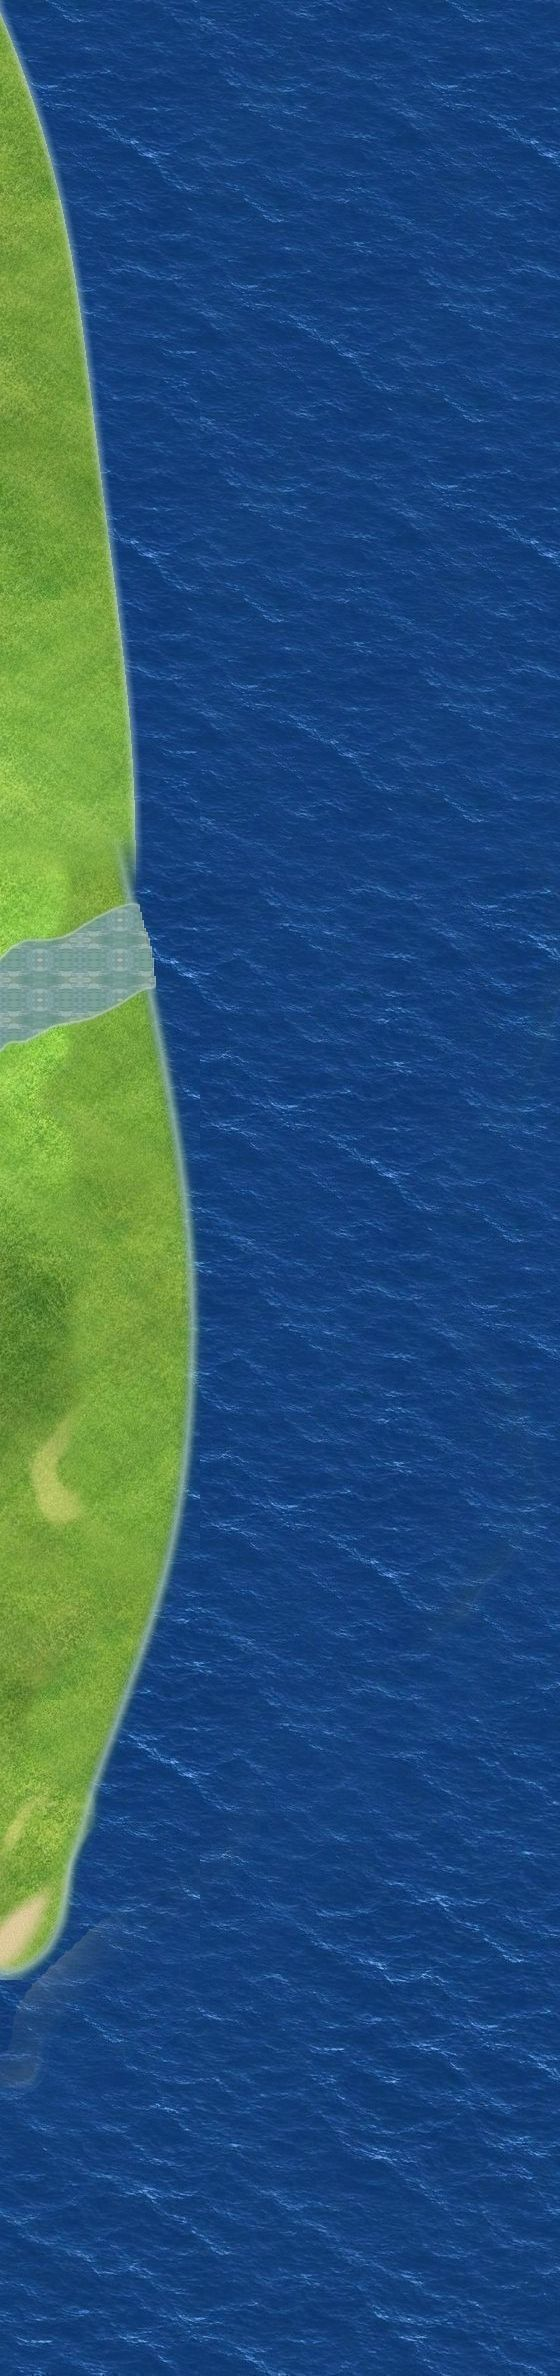
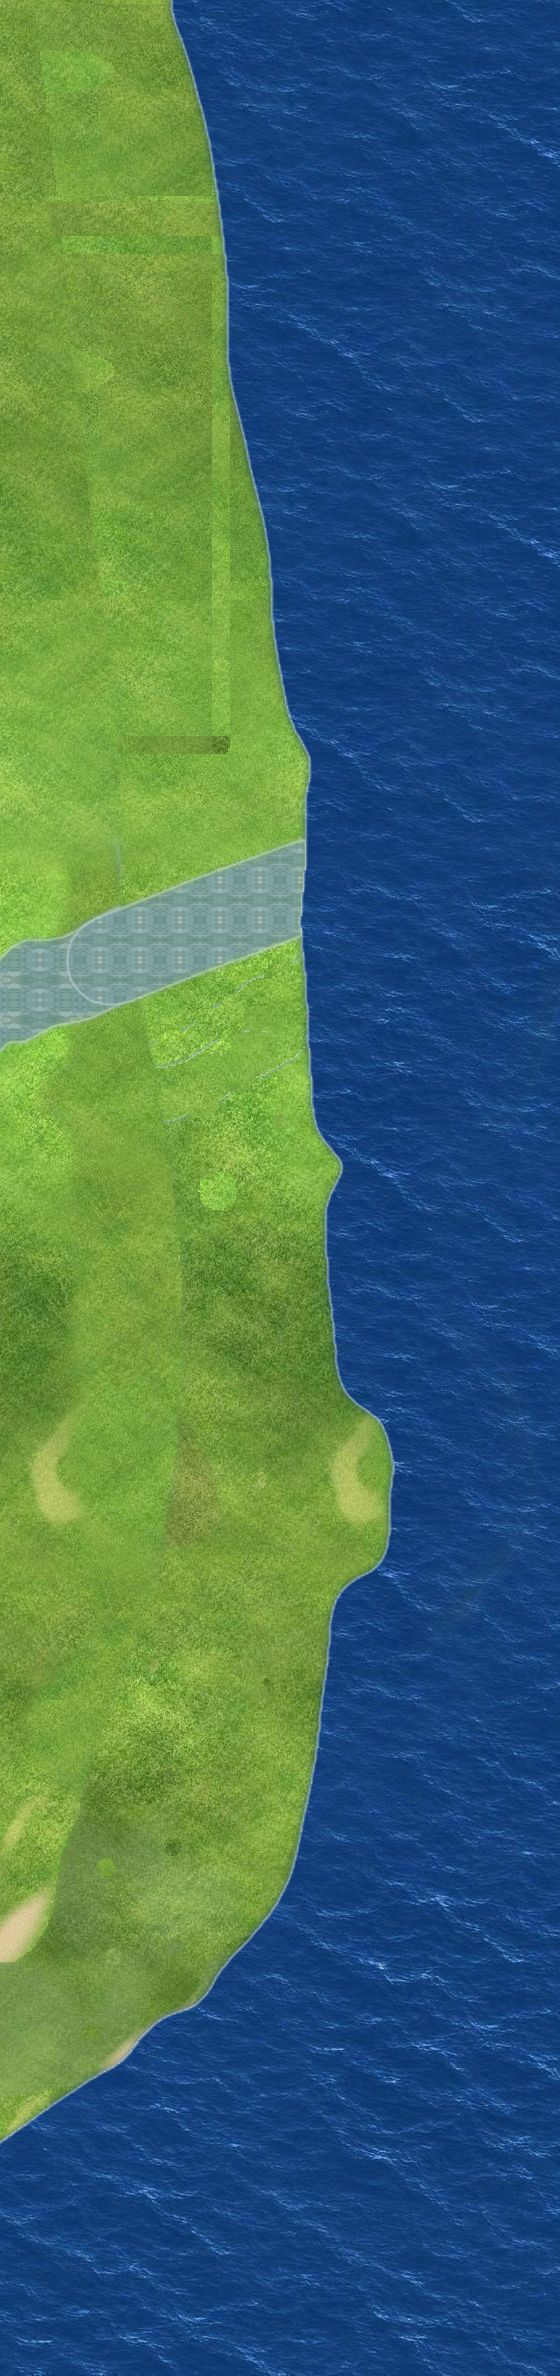
按用户画线：山顶木栅（带碰撞）；清掉看不见的小碰撞块；东/南海岸向海扩成草原并抹顺；南湖浅滩接到海、东河延长到新海岸 Co-Authored-By: Claude Opus 5.5 <noreply@anthropic.com> Claude-Session: https://claude.ai/code/session_011WrGna6yNwTfpmyp4CxMHs

Changed region(s): [[0.0, 0.0, 0.6982, 0.9032], [0.1518, 0.3737, 0.1821, 0.436]]

diff --git a/src/landmarks.js b/src/landmarks.js
@@ -8,7 +8,13 @@ const LM_DEF=[
 const CD=150,BUF=30;
 const IM={};for(const k of ['atk','spd','heal','gold'])for(const t of ['on','off']){const i=new Image();i.src=`assets/map/landmarks/${k}_${t}.png`;IM[k+'_'+t]=i}
 for(const f of ['idle','run1','run2','hit']){const i=new Image();i.src=`assets/characters/summons/tg/${f}.png`;IM['tg_'+f]=i}
-const LH={atk:26,spd:30,heal:24,gold:20};   // 地标在游戏里的高度
+const LH={atk:26,spd:30,heal:24,gold:20};
+// 山顶木栅（用户画线 11/03，data/palisade.json）：沿线每 5px 一根营地木桩；碰撞已烘进 coll.png
+for(const k of ['post0','post1','post2']){const i=new Image();i.src=`assets/map/sprites/camp_${k}.png`;IM['p_'+k]=i}
+const PH={post0:31,post1:24,post2:19};let POSTS=[];
+fetch('data/palisade.json?v=1').then(r=>r.json()).then(Ls=>{let seed=7;const rnd=()=>(seed=(seed*16807)%2147483647)/2147483647;
+ for(const L of Ls)for(let i=0;i<L.length-1;i++){const [x0,y0]=L[i],[x1,y1]=L[i+1],len=Math.hypot(x1-x0,y1-y0);for(let t=0;t<len;t+=5){const x=x0+(x1-x0)*t/len,y=y0+(y1-y0)*t/len;
+  POSTS.push({k:'post'+[0,1,1,2][Math.floor(rnd()*4)],x:x+(rnd()-.5)*1.5,y:y+(rnd()-.5)*1.5,h:.85+rnd()*.3})}}}).catch(()=>{});   // 地标在游戏里的高度
 export function install(X){
  const {hero,en,ok,makeEnemy,survival}=X,R=(a,b)=>a+Math.random()*(b-a);
  let L=null;
@@ -38,7 +44,7 @@ export function install(X){
   else if(l.k==='heal'){c.fillStyle='#7d8590';c.beginPath();c.ellipse(0,-3,10,4,0,0,6.3);c.fill();c.fillStyle=on?'#4fd18a':'#3b4048';c.beginPath();c.ellipse(0,-4,8,2.8,0,0,6.3);c.fill();c.fillStyle='#8a929c';c.fillRect(-1.5,-12,3,8);if(on){c.fillStyle='#bfffd6';for(let i=0;i<3;i++){const t=(now/400+i/3)%1;c.fillRect(-1+Math.sin(i*2)*2,-12-t*8,1.5,1.5)}}}
   else{c.fillStyle='#7d8590';c.fillRect(-9,-8,18,8);c.fillStyle='#9aa2ac';c.fillRect(-10,-9,20,2);if(on){c.fillStyle='#ffd23f';for(const [px,py] of [[-5,-11],[0,-12],[5,-11],[-2,-14],[3,-14],[0,-16]]){c.beginPath();c.arc(px,py,2,0,6.3);c.fill()}}}
   c.restore()}
- function sprites(items,cx,cy,c,now){if(!L)return;for(const l of L){const x=l.x-cx,y=l.y-cy;if(x<-40||y<-40||x>600||y>400)continue;items.push({y:l.y,f:()=>drawLM(c,l,x,y,now)})}
+ function sprites(items,cx,cy,c,now){if(!L)return;for(const p of POSTS){const x=p.x-cx,y=p.y-cy;if(x<-20||y<-40||x>620||y>420)continue;const I=IM['p_'+p.k];if(!I?.complete||!I.width)continue;items.push({y:p.y,f:()=>{const h=PH[p.k]*p.h,w=I.width*h/I.height;c.drawImage(I,x-w/2,y-h+2,w,h)}})}for(const l of L){const x=l.x-cx,y=l.y-cy;if(x<-40||y<-40||x>600||y>400)continue;items.push({y:l.y,f:()=>drawLM(c,l,x,y,now)})}
   for(const e of en){if(!e.tg||e.dead)continue;const x=e.x-cx,y=e.y-cy;items.push({y:e.y+.5,f:()=>{const I=IM['tg_'+(e.flash>0?'hit':Math.floor(now/110)%2?'run1':'run2')];if(!I?.complete||!I.width)return;const h=26,w=I.width*h/I.height;c.save();c.translate(x,y);c.scale(e.face||1,1);c.imageSmoothingEnabled=true;c.drawImage(I,-w/2,-h+1,w,h);c.restore()}})}}
  function draw(c,cx,cy,now){const S=X.S;if(!S)return;
   const B=S.buf||{};let y=64;c.save();c.font='bold 8px "PingFang SC","Microsoft YaHei",sans-serif';c.textAlign='left';

diff --git a/src/main.js b/src/main.js
@@ -1,16 +1,16 @@
 
-import {createMenu} from './menu.js?v=11030350';
-import {createSurvival} from './survival.js?v=11030350';
-import {createEnemies} from './enemies.js?v=11030350';
-import {createAudio} from './audio.js?v=11030350';
-import {createMeta} from './meta.js?v=11030350';
+import {createMenu} from './menu.js?v=11030400';
+import {createSurvival} from './survival.js?v=11030400';
+import {createEnemies} from './enemies.js?v=11030400';
+import {createAudio} from './audio.js?v=11030400';
+import {createMeta} from './meta.js?v=11030400';
 window.META=createMeta();
 const SFX=window.SFX=createAudio();
-import {createPathing} from './pathing.js?v=11030350';
+import {createPathing} from './pathing.js?v=11030400';
 let PATH=null;window.PATHDIR=(x,y)=>PATH?.dir(x,y);window.PATHDBG=()=>PATH?.dbg();window.PATHAT=(x,y)=>PATH?PATH.at(x,y):-1;
-import {createWeather} from './weather.js?v=11030350';
-import {createRun} from './run.js?v=11030350';
-import {createDebug} from './debug.js?v=11030350';
+import {createWeather} from './weather.js?v=11030400';
+import {createRun} from './run.js?v=11030400';
+import {createDebug} from './debug.js?v=11030400';
 const [W,CH,ED]=await Promise.all(['data/world.json','data/characters.json','data/enemies.json'].map(u=>fetch(u).then(r=>r.json())));
 const HN=await fetch('data/heroine.json').then(r=>r.json());
 const HM=await fetch('data/hero_m.json').then(r=>r.json());

diff --git a/src/run.js b/src/run.js
@@ -1,5 +1,5 @@
-import {install as installLM} from './landmarks.js?v=11030350';
-import {DEFS,CARD_DT,CARD_IC,CARD_KIND,install} from './cards2.js?v=11030350';
+import {install as installLM} from './landmarks.js?v=11030400';
+import {DEFS,CARD_DT,CARD_IC,CARD_KIND,install} from './cards2.js?v=11030400';
 // 局内成长（最小可玩版）：经验珠 → 升级三选一（大类卡点开再选）→ 多把武器自动攻击；被动；刷怪节奏；精英与 Boss。
 // 设计见 docs/GAME_DESIGN.md。伤害单位 = 敌人血量单位（棍兵基础 2 点）。
 const R=(a,b)=>a+Math.random()*(b-a);

diff --git a/index.html b/index.html
@@ -88,5 +88,5 @@ function tick(n){if(!document.getElementById('boot'))return;var t=(n-t0)/1000,dt
 <div class="sw" role="group" aria-label="角色" id="cs"><button data-c="m" aria-pressed="true">短发</button><button data-c="f0" aria-pressed="false">女主·长直发</button></div>
 </div>
 
-<script type="module" src="src/main.js?v=11030350"></script>
+<script type="module" src="src/main.js?v=11030400"></script>
 </body></html>

diff --git a/src/menu.js b/src/menu.js
@@ -1,4 +1,4 @@
-import {WEAPONS,PASSIVES,POOL,PASS_KEYS,WIC,PIC,fixDeck,DECKN,KIND} from './run.js?v=11030350';
+import {WEAPONS,PASSIVES,POOL,PASS_KEYS,WIC,PIC,fixDeck,DECKN,KIND} from './run.js?v=11030400';
 // 主界面：独立绘制演示场景；备战（角色/装备/商店）→ 选关卡 → 出发。
 document.documentElement.classList.add('menu-loading');
 const style=document.createElement('style');

diff --git a/src/survival.js b/src/survival.js
@@ -1,4 +1,4 @@
-import {createLeaderboard,submitScore,formatTime,scoreOf} from './leaderboard.js?v=11030350';
+import {createLeaderboard,submitScore,formatTime,scoreOf} from './leaderboard.js?v=11030400';
 
 export function createSurvival(game){
  let maxHp=100,playing=false,finished=false,hp=100,elapsed=0,cooldown=0,name='',generation=0;

diff --git a/tools/coast_palisade.py b/tools/coast_palisade.py
@@ -1,0 +1,84 @@
+"""一次性脚本（用户画线 11/03）：东/南海岸向海扩成草原并做顺滑海岸线；南湖浅滩接到海；清掉看不见的小碰撞块；生成山顶木栅数据。"""
+import numpy as np,json,cv2
+from PIL import Image
+R='/home/claude/sanguoxingcunzhe';M=R+'/assets/map/'
+J=json.load(open(R+'/data/world.json'));HD=J['HD'];T=J['tiles']['T'];W,H=J['WW'],J['WH']
+L=json.load(open(R+'/tools/user_lines_1103.json'))
+full=np.zeros((H*HD,W*HD,3),np.uint8)
+for t in J['tiles']['list']:
+    im=np.array(Image.open(M+t+'.jpg').convert('RGB'));tx,ty=int(t[1]),int(t[2]);full[ty*T*HD:ty*T*HD+im.shape[0],tx*T*HD:tx*T*HD+im.shape[1]]=im
+c=np.array(Image.open(M+'coll.png').convert('RGB'));b=c[...,0]
+f=full[::HD,::HD].astype(int);sea=(f[...,2]>f[...,1]+40)&(f[...,0]<90)
+sea=cv2.morphologyEx(sea.astype(np.uint8),cv2.MORPH_OPEN,np.ones((5,5),np.uint8))>0
+# 只算真正的大海（和地图边缘连通的水）
+n,lb=cv2.connectedComponents(sea.astype(np.uint8));edge=set(np.unique(np.concatenate([lb[0],lb[-1],lb[:,0],lb[:,-1]])))-{0}
+ocean=np.isin(lb,list(edge))
+# 1) 清小碰撞块
+n2,lb2,st,_=cv2.connectedComponentsWithStats((b==1).astype(np.uint8),8)
+for i in range(1,n2):
+    if st[i,4]<100:b[lb2==i]=0
+# 2) 海岸扩张：沿用户东/南海岸的线（x>1000 的红线），向海推 55px，再把海岸线整体抹顺
+coast=np.zeros((H,W),np.uint8)
+for l in L:
+    P=np.array(l['点']);
+    if P[:,0].mean()>1000 and len(P)>12:cv2.polylines(coast,[P.astype(np.int32)],False,255,110)
+land=~ocean
+grow=land|((coast>0)&ocean)
+k=cv2.getStructuringElement(cv2.MORPH_ELLIPSE,(41,41))
+sm=cv2.GaussianBlur(cv2.morphologyEx(grow.astype(np.uint8)*255,cv2.MORPH_CLOSE,k).astype(np.float32),(0,0),9)>127
+reg=np.zeros((H,W),bool);reg[:,1250:]=True;reg[950:,1000:]=True
+newland=sm&ocean&reg
+# 去掉海里孤立的小岛、陆地里残留的小水坑
+L2=(~ocean)|newland;n3,lb3,st3,_=cv2.connectedComponentsWithStats(L2.astype(np.uint8),8);big=1+np.argmax(st3[1:,4]);newland&=(lb3==big)
+O2=~((~ocean)|newland);n4,lb4,st4,_=cv2.connectedComponentsWithStats(O2.astype(np.uint8),8)
+for i in range(1,n4):
+    if st4[i,4]<3000:newland|=(lb4==i)&ocean
+# 3) 南湖→海 浅滩
+pond=np.array([[1058,1050],[1075,1080],[1100,1105],[1125,1125],[1150,1140],[1165,1188]])
+riv=np.zeros((H,W),np.uint8);cv2.polylines(riv,[pond.astype(np.int32)],False,255,34);cv2.polylines(riv,[np.array([[1655,480],[1700,462],[1760,440],[1820,420]],np.int32)],False,255,44)
+riv=riv>0
+# 画面：新陆地用内陆草地纹理（向内平移 140px 取样）
+def up(m):return cv2.resize(m.astype(np.uint8),(W*HD,H*HD),interpolation=cv2.INTER_NEAREST)>0
+# 老海岸线的白边也盖掉：新陆地再往陆地里多吃 10px
+dist_o=cv2.distanceTransform((~ocean).astype(np.uint8),cv2.DIST_L2,5)
+paint=(newland|((dist_o<10)&~ocean&cv2.dilate(newland.astype(np.uint8),np.ones((25,25),np.uint8)).astype(bool)))
+clean=(b==0)&(dist_o>25)
+# 每个要画的点，从几个方向平移取「干净草地」
+offs=[(0,-150),(-150,0),(0,-260),(-260,0),(-150,-150),(0,-380),(-380,0),(150,0),(150,-150),(300,-150),(300,0)]
+pick=np.full((H,W),-1,np.int8)
+for i,(dy,dx) in enumerate(offs):
+    sh=np.roll(clean,(-dy,-dx),axis=(0,1)) if False else np.roll(clean,(-dy,-dx),axis=(0,1))
+    YY,XX=np.mgrid[0:H,0:W];inb=(YY+dy>=0)&(YY+dy<H)&(XX+dx>=0)&(XX+dx<W)
+    ok=paint&(pick<0)&inb&np.roll(clean,(-dy,-dx),axis=(0,1))
+    pick[ok]=i
+newland&=pick>=0
+pickH=cv2.resize(pick,(W*HD,H*HD),interpolation=cv2.INTER_NEAREST)
+grass=full.copy()
+for i,(dy,dx) in enumerate(offs):
+    m=pickH==i
+    if m.any():grass[m]=np.roll(full,(-dy*HD,-dx*HD),axis=(0,1))[m]
+pl=up(paint&(pick>=0))
+a=cv2.GaussianBlur(pl.astype(np.float32),(0,0),2*HD)[...,None]
+out=full*(1-a)+grass*a
+ocean2=ocean&~newland
+landH=up(~ocean2);e=cv2.GaussianBlur(landH.astype(np.float32),(0,0),1.5*HD);edge=np.clip(1-np.abs(e-.5)*4,0,1)[...,None]*.5*up(reg)[...,None]
+out=out*(1-edge)+np.array([225,235,238])*edge
+full=np.clip(out,0,255).astype(np.uint8)
+# 浅滩
+yy=int(np.mean([p[1] for p in [(0,1100)]]));
+P=10*HD;cx,cy=1500,0;ys=np.where(b[480:620,1500]==2)[0];cy=480+int(ys.mean())
+patch=full[cy*HD-P//2:cy*HD+P//2,cx*HD-P:cx*HD+P].astype(np.float32);pm=np.concatenate([patch,patch[:,::-1]],1);pm=np.concatenate([pm,pm[::-1]],0)
+water=np.tile(pm,(full.shape[0]//pm.shape[0]+1,full.shape[1]//pm.shape[1]+1,1))[:full.shape[0],:full.shape[1]]
+pondDeep=sea&~ocean
+rmask=riv&~pondDeep&~(ocean&~newland)
+rH=up(rmask);ra=cv2.GaussianBlur(rH.astype(np.float32),(0,0),1.5*HD)[...,None]*(~up(pondDeep|(ocean&~newland)))[...,None]
+ed=np.clip(1-np.abs(ra[...,0]-.5)*4,0,1)[...,None]*.45
+o2=full*(1-ra)+water*ra;o2=o2*(1-ed)+np.array([225,235,238])*ed;full=np.clip(o2,0,255).astype(np.uint8)
+# 碰撞
+b[newland]=0;b[rmask]=2
+# 新陆地边缘外的海仍是 1
+c[...,0]=b;Image.fromarray(c).save(M+'coll.png')
+for t in J['tiles']['list']:
+    tx,ty=int(t[1]),int(t[2]);Image.fromarray(full[ty*T*HD:(ty+1)*T*HD,tx*T*HD:(tx+1)*T*HD]).save(M+t+'.jpg',quality=80,optimize=True)
+J['ver']=J.get('ver',0)+1;json.dump(J,open(R+'/data/world.json','w'),ensure_ascii=False,separators=(',',':'))
+Image.fromarray(full[::4,::4]).save('/tmp/claude-0/s/after.png');print('newland',int(newland.sum()),'river',int(rmask.sum()))
